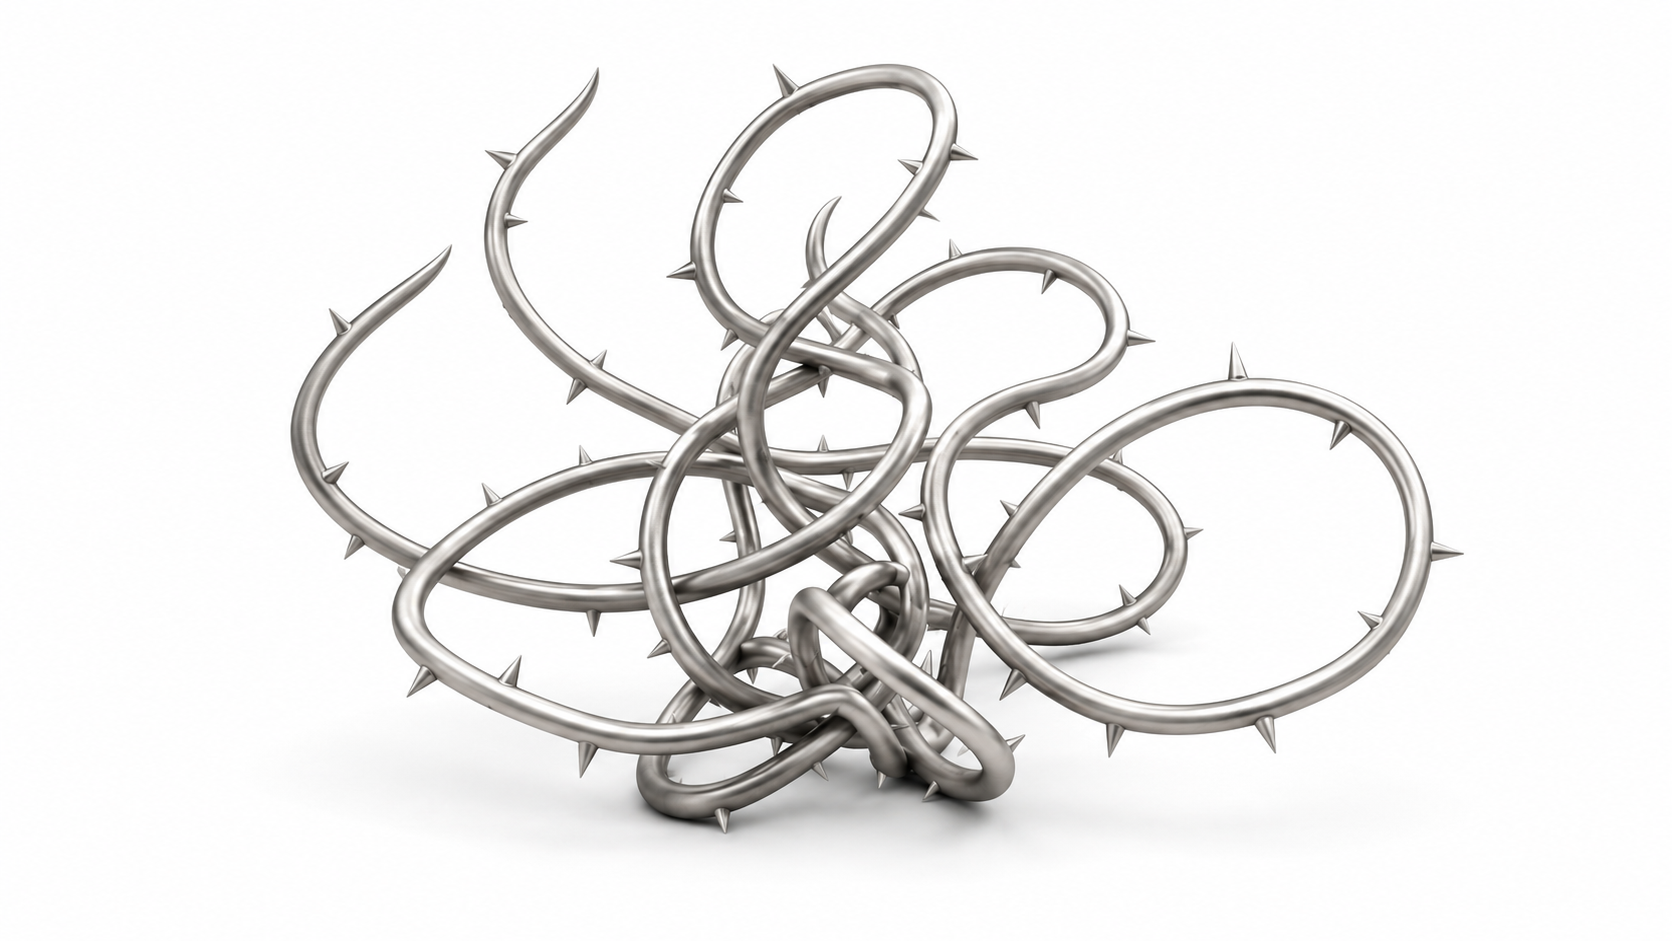
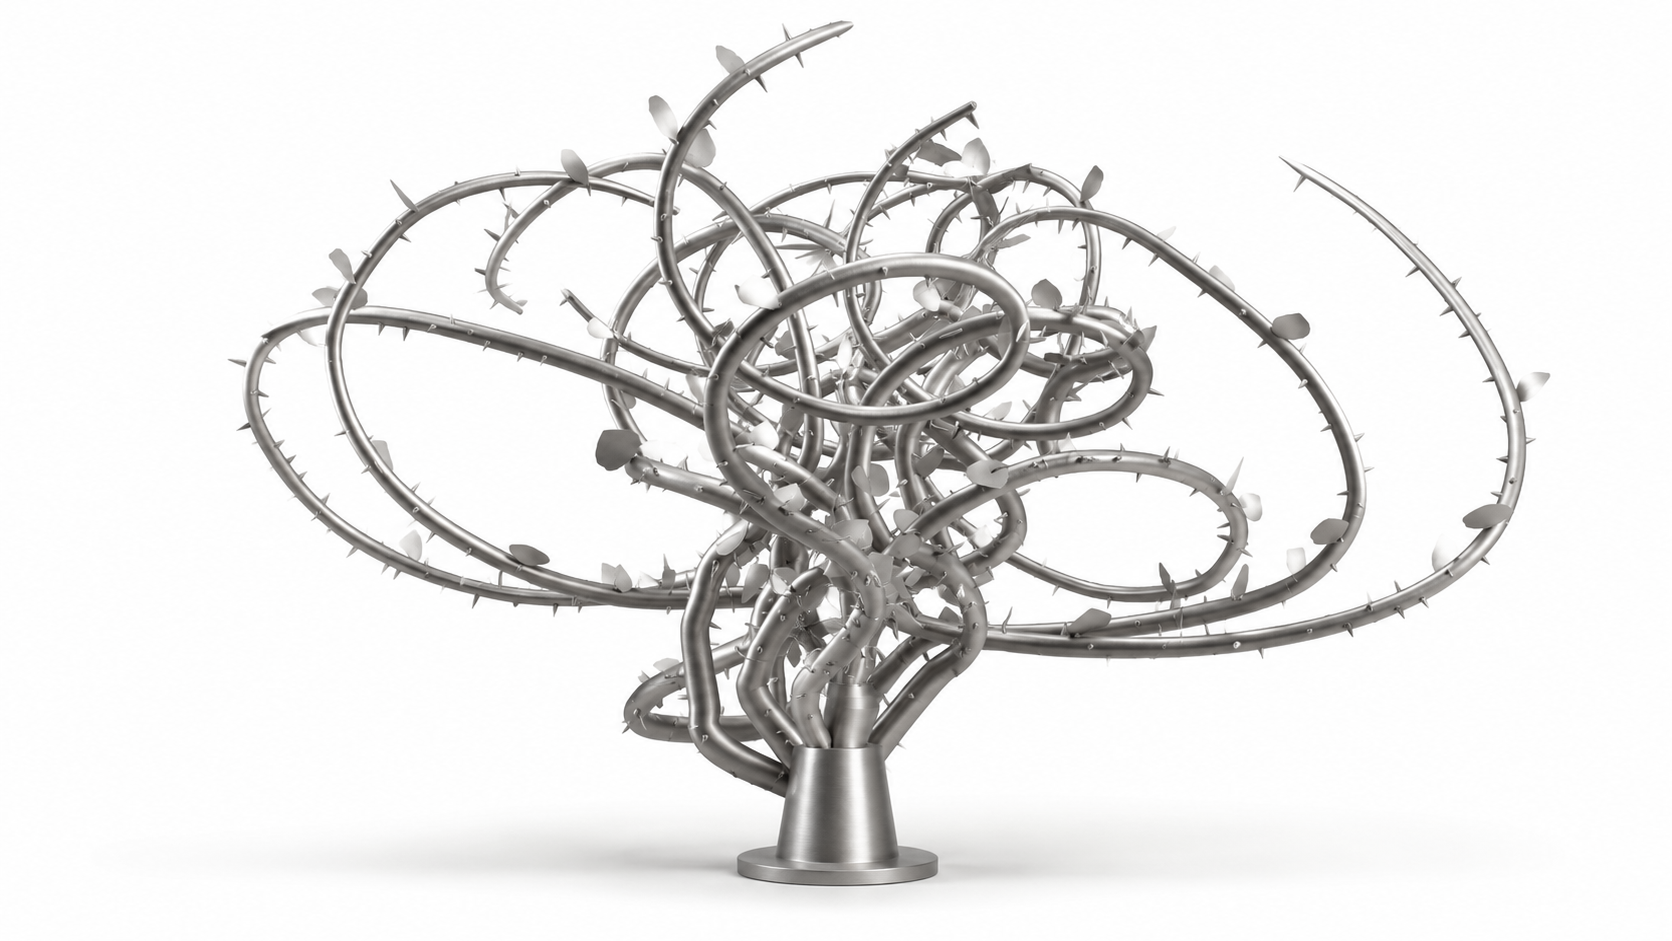
feat: replace about hero vine objet image with new version

Changed region(s): [[0.1244, 0.0308, 0.933, 0.9554], [0.7775, 0.1849, 0.8086, 0.2157]]

diff --git a/flat-2d/about.html b/flat-2d/about.html
@@ -28,7 +28,7 @@
       </div>
 
       <div class="about-visual">
-        <img src="./assets/about_vine_objet.png" alt="Thorn vine objet for About Project" />
+        <img src="./assets/about_vine_objet.png?v=20260608-vine-v2" alt="Thorn vine objet for About Project" />
       </div>
     </section>
   </main>
